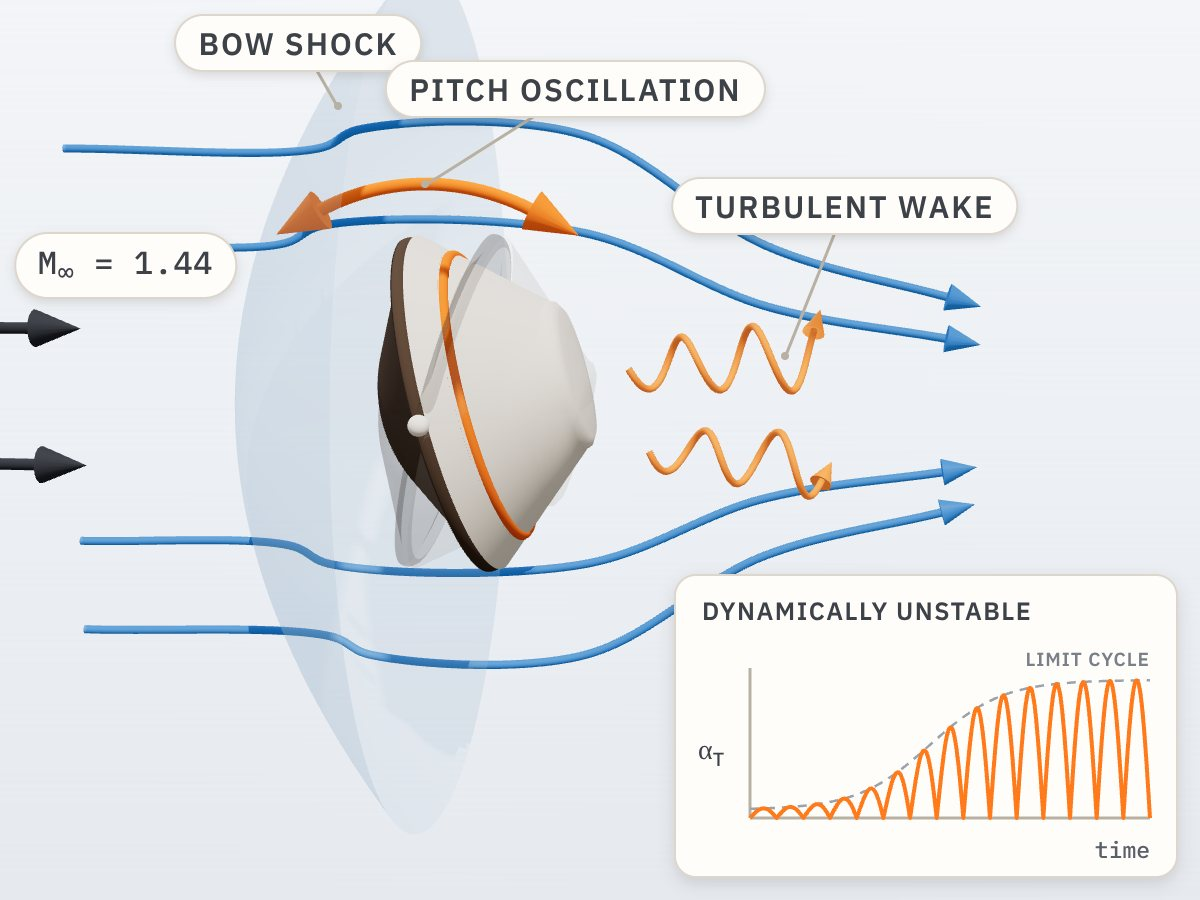
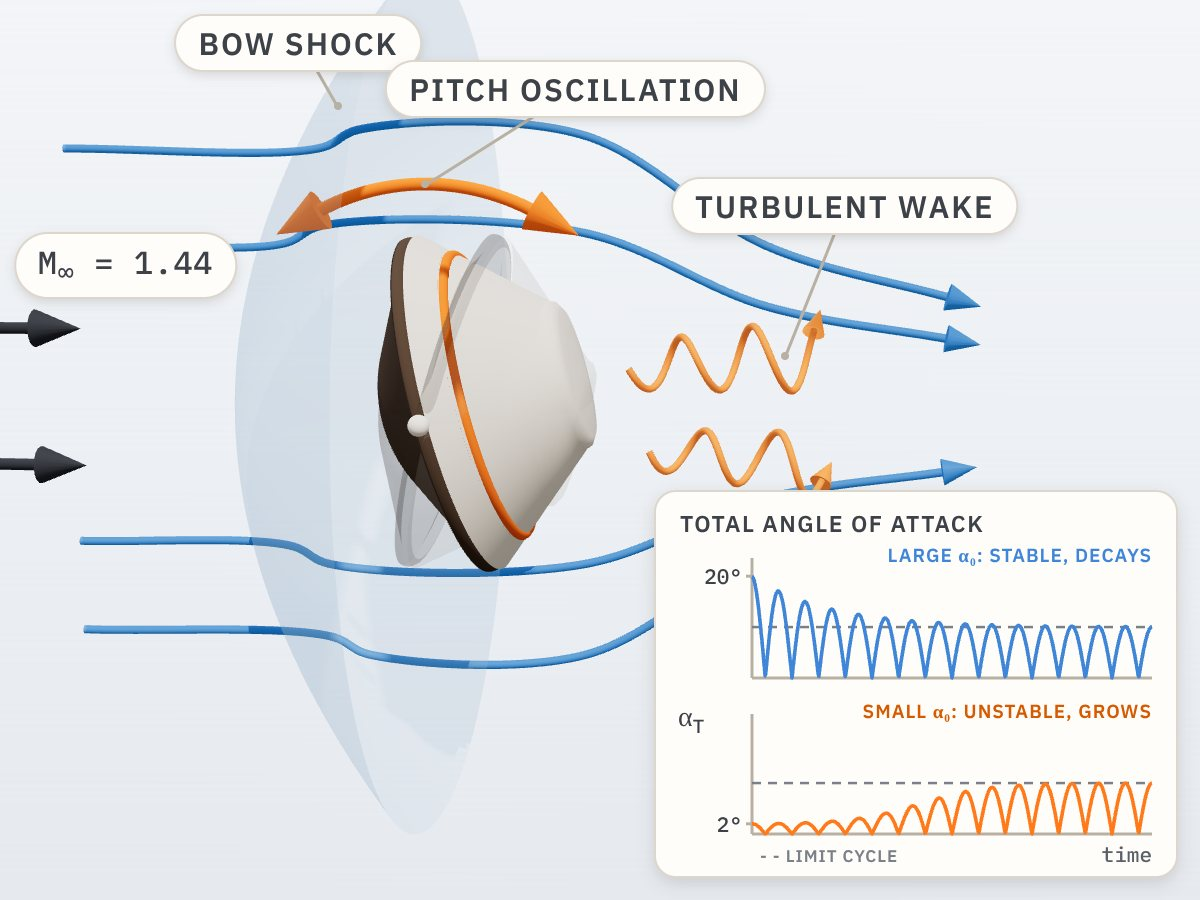
Capsule illustration: show both initial conditions in the alpha_T inset
Small initial angle of attack (2 deg) is dynamically unstable and grows;
large initial angle of attack (20 deg) is stable and decays; both approach
the same limit cycle. Alt text and panel summary updated to match.

Claude-Session: https://claude.ai/code/session_01BxnXVDyGPR6ku7y4dUWxom

Changed region(s): [[0.5242, 0.5289, 0.9867, 0.9956]]

diff --git a/tools/scenes/scenes/capsule.js b/tools/scenes/scenes/capsule.js
@@ -54,26 +54,35 @@ export default async function () {
   streamline(scene, [...arc].reverse(), { r: 0.06, color: C.orange, opacity: 1 });
   scene.add(mesh(new THREE.SphereGeometry(0.1, 24, 16), clay(C.white), { pos: [cg[0], cg[1], 1.7] }));
 
-  // Sub-figure: total angle of attack for a dynamically unstable capsule (free oscillation grows to a limit cycle)
-  const w = 500, h = 300, px0 = 74, px1 = w - 26, py0 = h - 58, py1 = 104;
-  let path = '', env = '';
-  for (let i = 0; i <= 600; i++) {
-    const t = i / 600, A = 0.06 + 0.94 / (1 + Math.exp(-11 * (t - 0.45)));
-    const aT = A * Math.abs(Math.sin(2 * Math.PI * 7.5 * t));
-    const X = px0 + (px1 - px0) * t, Y = py0 - (py0 - py1) * aT;
-    path += (i ? 'L' : 'M') + X.toFixed(1) + ',' + Y.toFixed(1);
-    env += (i ? 'L' : 'M') + X.toFixed(1) + ',' + (py0 - (py0 - py1) * A).toFixed(1);
-  }
+  // Sub-figure: total angle of attack from two initial conditions. Small alpha_0 (2 deg) is dynamically unstable and grows;
+  // large alpha_0 (20 deg) is stable and decays; both approach the same limit cycle (dashed).
+  const w = 520, h = 384, px0 = 96, px1 = w - 24, ph = 112, amax = 22, L = 10;
+  const panel = (yb, a0, grow) => {               // yb: baseline y of the panel
+    let path = '', env = '';
+    const Y = a => yb - ph * a / amax;
+    for (let i = 0; i <= 700; i++) {
+      const t = i / 700;
+      const A = grow ? a0 + (L - a0) / (1 + Math.exp(-12 * (t - 0.42))) - (L - a0) / (1 + Math.exp(12 * 0.42)) * (1 - t)
+                     : L + (a0 - L) * Math.exp(-5.2 * t);
+      const X = px0 + (px1 - px0) * t;
+      path += (i ? 'L' : 'M') + X.toFixed(1) + ',' + Y(A * Math.abs(Math.cos(2 * Math.PI * 7.5 * t))).toFixed(1);
+      env += (i ? 'L' : 'M') + X.toFixed(1) + ',' + Y(A).toFixed(1);
+    }
+    return { path, env, yL: Y(L), y0: Y(a0) };
+  };
+  const yA = 186, yB = 342, top20 = panel(yA, 20, false), bot2 = panel(yB, 2, true);
+  const axes = yb => `<line x1="${px0}" y1="${yb - ph - 8}" x2="${px0}" y2="${yb}" stroke="#b9b0a4" stroke-width="3"/><line x1="${px0}" y1="${yb}" x2="${px1}" y2="${yb}" stroke="#b9b0a4" stroke-width="3"/>`;
+  const trace = (p, col) => `<line x1="${px0}" y1="${p.yL}" x2="${px1}" y2="${p.yL}" stroke="#7a8088" stroke-width="2.5" stroke-dasharray="9 7"/><path d="${p.path}" fill="none" stroke="${col}" stroke-width="3.6" stroke-linejoin="round"/>`;
+  const tag = (y, txt, col) => `<text x="${px1}" y="${y}" text-anchor="end" font-family="Plex" font-weight="600" font-size="19" letter-spacing="1" fill="${col}">${txt}</text>`;
+  const a0lab = (y, v) => `<text x="${px0 - 10}" y="${y + 8}" text-anchor="end" font-family="PlexMono" font-size="21" fill="#3d4148">${v}°</text><line x1="${px0 - 6}" y1="${y}" x2="${px0}" y2="${y}" stroke="#b9b0a4" stroke-width="3"/>`;
   inset(ctx.stage, { x: 1200 - w - 26, y: 900 - h - 26, w, h, svg: `
     <svg width="${w}" height="${h}" viewBox="0 0 ${w} ${h}" xmlns="http://www.w3.org/2000/svg">
-      <text x="26" y="44" font-family="Plex" font-weight="600" font-size="25" letter-spacing="1.5" fill="#3d4148">DYNAMICALLY UNSTABLE</text>
-      <line x1="${px0}" y1="${py1 - 12}" x2="${px0}" y2="${py0}" stroke="#b9b0a4" stroke-width="3"/>
-      <line x1="${px0}" y1="${py0}" x2="${px1}" y2="${py0}" stroke="#b9b0a4" stroke-width="3"/>
-      <path d="${env}" fill="none" stroke="#9aa3ad" stroke-width="2.5" stroke-dasharray="9 7"/>
-      <path d="${path}" fill="none" stroke="#ff7a1a" stroke-width="4" stroke-linejoin="round"/>
-      <text x="22" y="${(py0 + py1) / 2 + 10}" font-family="PlexMono" font-size="28" fill="#3d4148">α<tspan font-size="19" dy="7">T</tspan></text>
-      <text x="${px1}" y="${h - 18}" text-anchor="end" font-family="PlexMono" font-size="23" fill="#5a6068">time</text>
-      <text x="${px1}" y="${py1 - 18}" text-anchor="end" font-family="Plex" font-weight="600" font-size="19" letter-spacing="1" fill="#7a8088" dy="4">LIMIT CYCLE</text>
+      <text x="24" y="40" font-family="Plex" font-weight="600" font-size="23" letter-spacing="1.5" fill="#3d4148">TOTAL ANGLE OF ATTACK</text>
+      ${axes(yA)}${trace(top20, '#3f86d9')}${a0lab(top20.y0, 20)}${tag(yA - ph - 4, 'LARGE α₀: STABLE, DECAYS', '#3f86d9')}
+      ${axes(yB)}${trace(bot2, '#ff7a1a')}${a0lab(bot2.y0, 2)}${tag(yB - ph - 4, 'SMALL α₀: UNSTABLE, GROWS', '#d55a00')}
+      <text x="22" y="${(yA + yB) / 2 - 30}" font-family="PlexMono" font-size="28" fill="#3d4148">α<tspan font-size="19" dy="7">T</tspan></text>
+      <text x="${px0 + 8}" y="${h - 14}" font-family="Plex" font-weight="600" font-size="17" letter-spacing="1" fill="#7a8088">- - LIMIT CYCLE</text>
+      <text x="${px1}" y="${h - 14}" text-anchor="end" font-family="PlexMono" font-size="21" fill="#5a6068">time</text>
     </svg>` });
 
   finish(ctx, [

diff --git a/index.html b/index.html
@@ -395,12 +395,12 @@
     </ul>
     <div class="projects">
       <article class="proj" id="project-esi">
-        <figure class="pfig"><img src="assets/research/sketch-reentry-capsule.jpg" alt="Illustration: a blunt reentry capsule pitching about its center of gravity in an M∞ = 1.44 stream, with a detached bow shock and a turbulent wake; an inset plots the total angle of attack growing from a small disturbance into a limit cycle, the signature of dynamic instability" loading="lazy" width="1200" height="900"></figure>
+        <figure class="pfig"><img src="assets/research/sketch-reentry-capsule.jpg" alt="Illustration: a blunt reentry capsule pitching about its center of gravity in an M∞ = 1.44 stream, with a detached bow shock and a turbulent wake; an inset plots the total angle of attack for two initial conditions: from a small initial angle of attack (2°) the oscillation grows, and from a large one (20°) it decays, both toward the same limit cycle" loading="lazy" width="1200" height="900"></figure>
         <div class="pbody">
           <span class="label">NASA Early Stage Innovations · PI · 2023–2027</span>
           <h3>Dynamic stability of reentry capsules</h3>
           <p class="award">Physics-Guided Multifidelity Learning for Characterization of Blunt-Body Dynamic Stability (80NSSC23K0231, with a paid extension)</p>
-          <p>Blunt reentry capsules can become dynamically unstable in pitch at supersonic and transonic speeds, where small oscillations grow into limit cycles. The lab characterizes this behavior from free-flight CFD of the Genesis capsule, using multifidelity data fusion, Bayesian estimation of pitch-damping derivatives, neural-operator surrogates, dynamic mode decomposition, and equation discovery.</p>
+          <p>Blunt reentry capsules can become dynamically unstable in pitch at supersonic and transonic speeds, where small-amplitude oscillations grow and large-amplitude oscillations decay toward the same limit cycle. The lab characterizes this behavior from free-flight CFD of the Genesis capsule, using multifidelity data fusion, Bayesian estimation of pitch-damping derivatives, neural-operator surrogates, dynamic mode decomposition, and equation discovery.</p>
           <dl class="pmeta">
             <dt>Setup</dt><dd>Genesis sample return capsule; free-flight (free-to-oscillate) CFD at M<sub>∞</sub> = 1.44, α<sub>0</sub> = 2° and 20°.</dd>
             <dt>Team</dt><dd>Ashraf Kassem and Shafi Al-Salman Romeo (Ph.D.); Kaden Thompson, Rachel Thibodeau, and Zachary Lohmar (undergraduate); alumnus Furkan Oz. Collaborator: Omer San.</dd>
